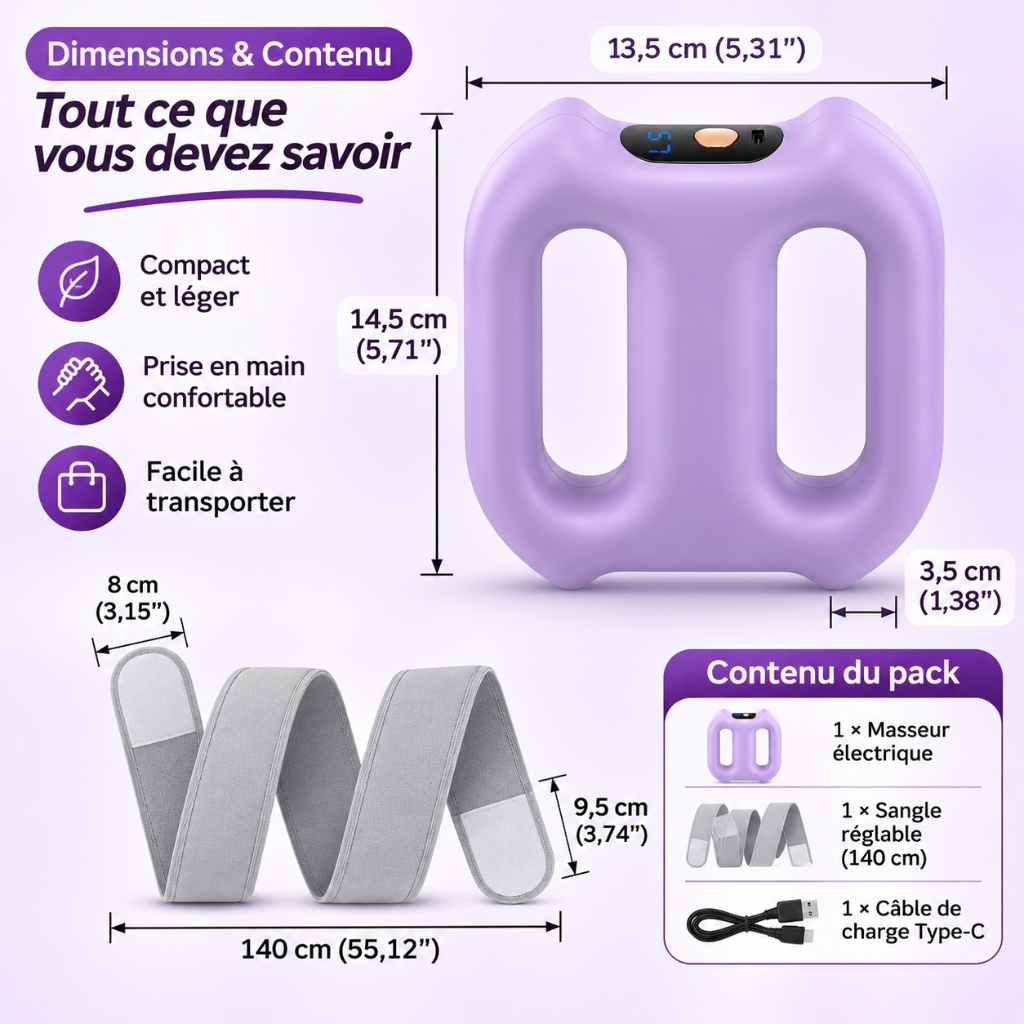
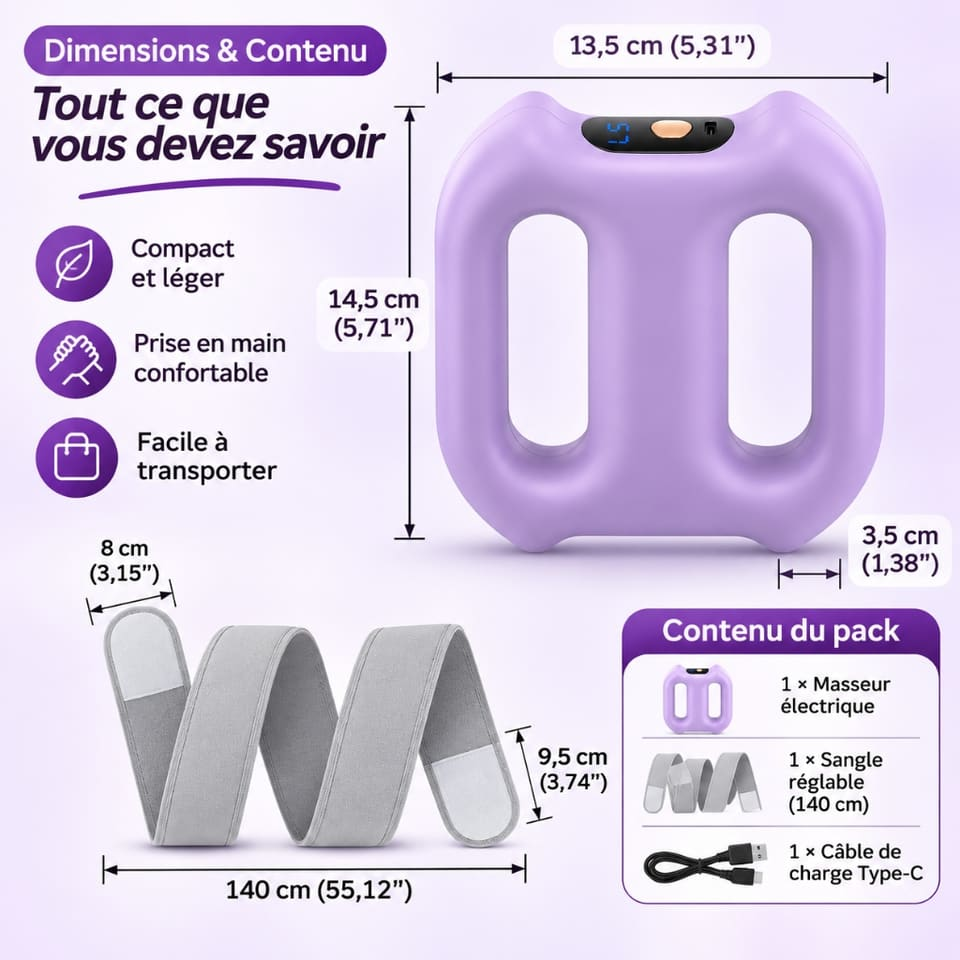
perf(masseur-vibrant): reduce image weight by 76%, inline Meta Pixel in head with preconnect and noscript fallback

diff --git a/app/layout.tsx b/app/layout.tsx
@@ -27,9 +27,14 @@ export default function RootLayout({
   return (
     <html lang="fr">
       <head>
-        {/* Meta Pixel Code */}
-        <Script id="meta-pixel" strategy="afterInteractive">
-          {`
+        {/* Preconnect & DNS-Prefetch vers les serveurs Meta pour init immédiate */}
+        <link rel="preconnect" href="https://connect.facebook.net" crossOrigin="anonymous" />
+        <link rel="dns-prefetch" href="https://connect.facebook.net" />
+        {/* Meta Pixel Code (Exécution immédiate dans le <head> sans attendre l'hydratation) */}
+        <script
+          id="meta-pixel"
+          dangerouslySetInnerHTML={{
+            __html: `
             (function(f,b,e,v){
               if(!f.fbq){
                 var n=f.fbq=function(){n.callMethod?
@@ -75,8 +80,18 @@ export default function RootLayout({
                 }
               }
             })(window, document, 'script', 'https://connect.facebook.net/en_US/fbevents.js');
-          `}
-        </Script>
+          `,
+          }}
+        />
+        <noscript>
+          <img
+            height="1"
+            width="1"
+            style={{ display: "none" }}
+            src="https://www.facebook.com/tr?id=2150878529184686&ev=PageView&noscript=1"
+            alt=""
+          />
+        </noscript>
         {/* Microsoft Clarity (Heatmaps & Session Recording) */}
         <Script id="microsoft-clarity" strategy="afterInteractive">
           {`

diff --git a/components/features/MasseurVibrantLanding.tsx b/components/features/MasseurVibrantLanding.tsx
@@ -396,7 +396,7 @@ export default function MasseurVibrantLanding({ slug = "masseur-vibrant" }: { sl
                     : "border-slate-200 opacity-60 hover:opacity-100"
                 }`}
               >
-                <Image src={img.src} alt={img.alt} fill className="object-cover" sizes="120px" />
+                <Image src={img.src} alt={img.alt} fill loading="lazy" className="object-cover" sizes="120px" />
               </button>
             ))}
           </div>
@@ -529,6 +529,7 @@ export default function MasseurVibrantLanding({ slug = "masseur-vibrant" }: { sl
               src="/images/masseur-vibrant/section-fonctionnement.jpg"
               alt="Guide d'utilisation et commandes du Masseur Vibrant Portable"
               fill
+              loading="lazy"
               className="object-contain"
               sizes="(max-width: 768px) 100vw, 800px"
             />
@@ -643,6 +644,7 @@ export default function MasseurVibrantLanding({ slug = "masseur-vibrant" }: { sl
               src="/images/masseur-vibrant/section-dimensions-contenu.jpg"
               alt="Dimensions et contenu du coffret Masseur 2-en-1"
               fill
+              loading="lazy"
               className="object-contain"
               sizes="(max-width: 768px) 100vw, 800px"
             />
